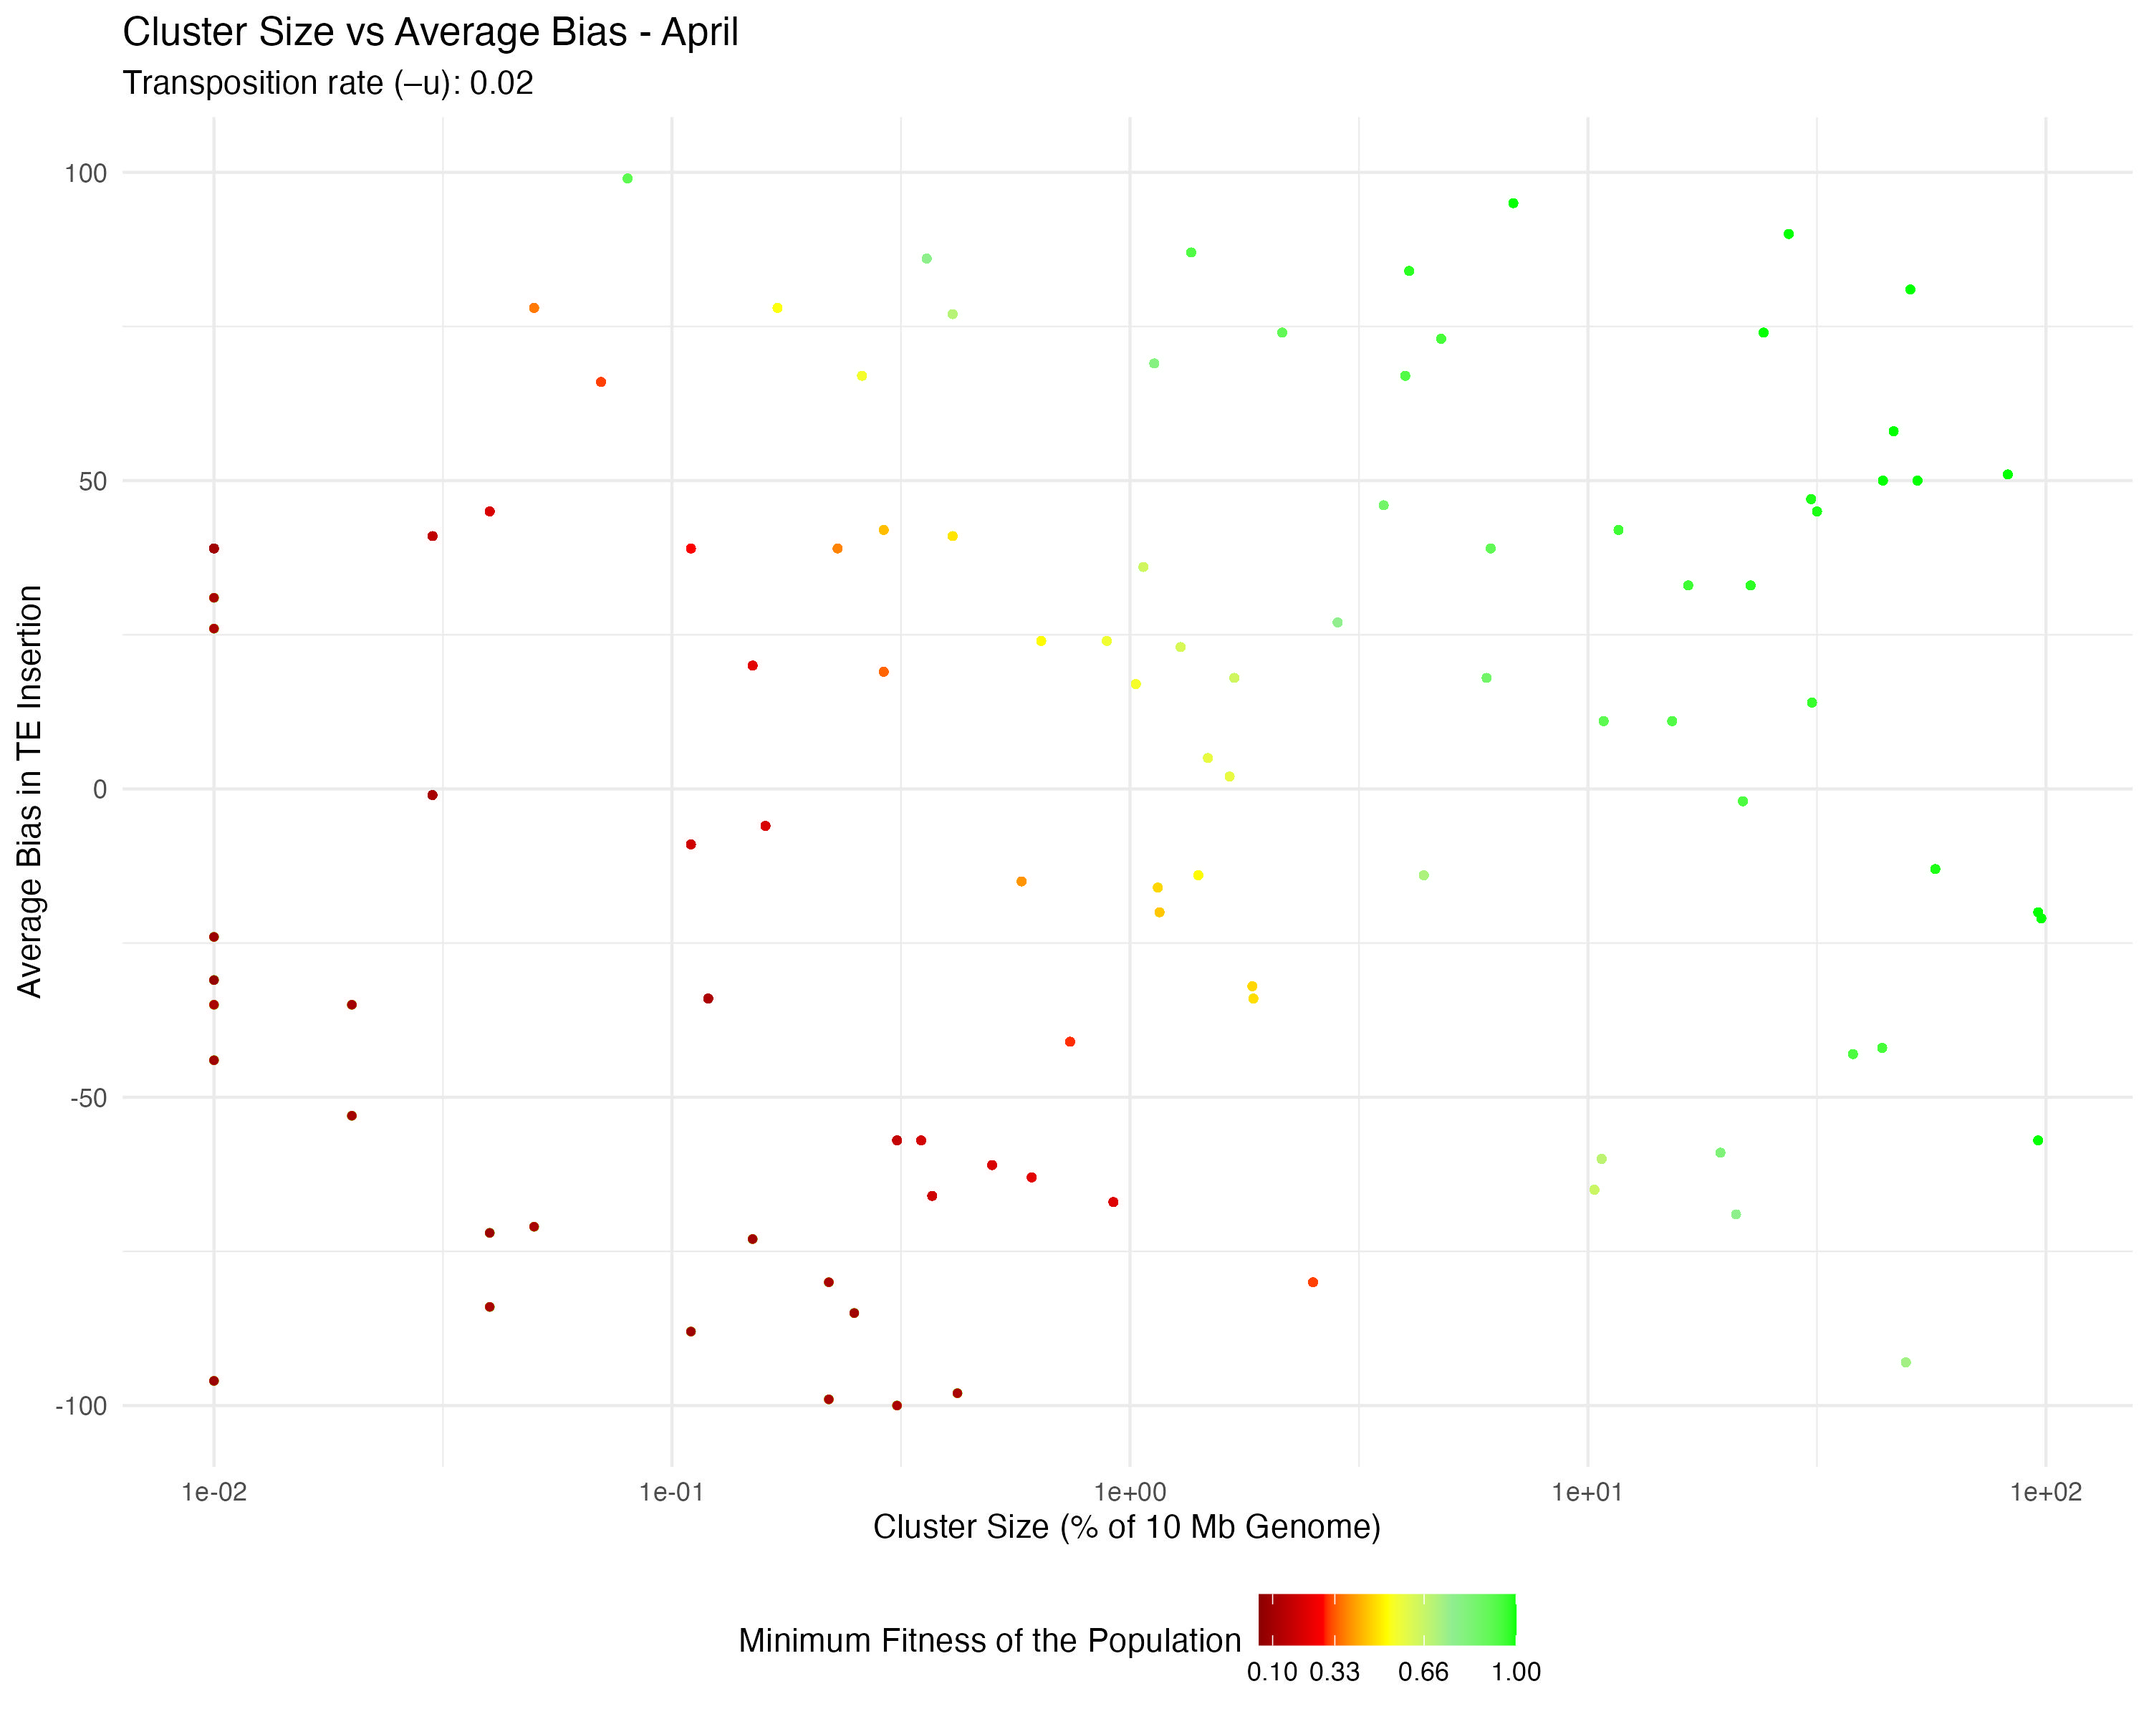
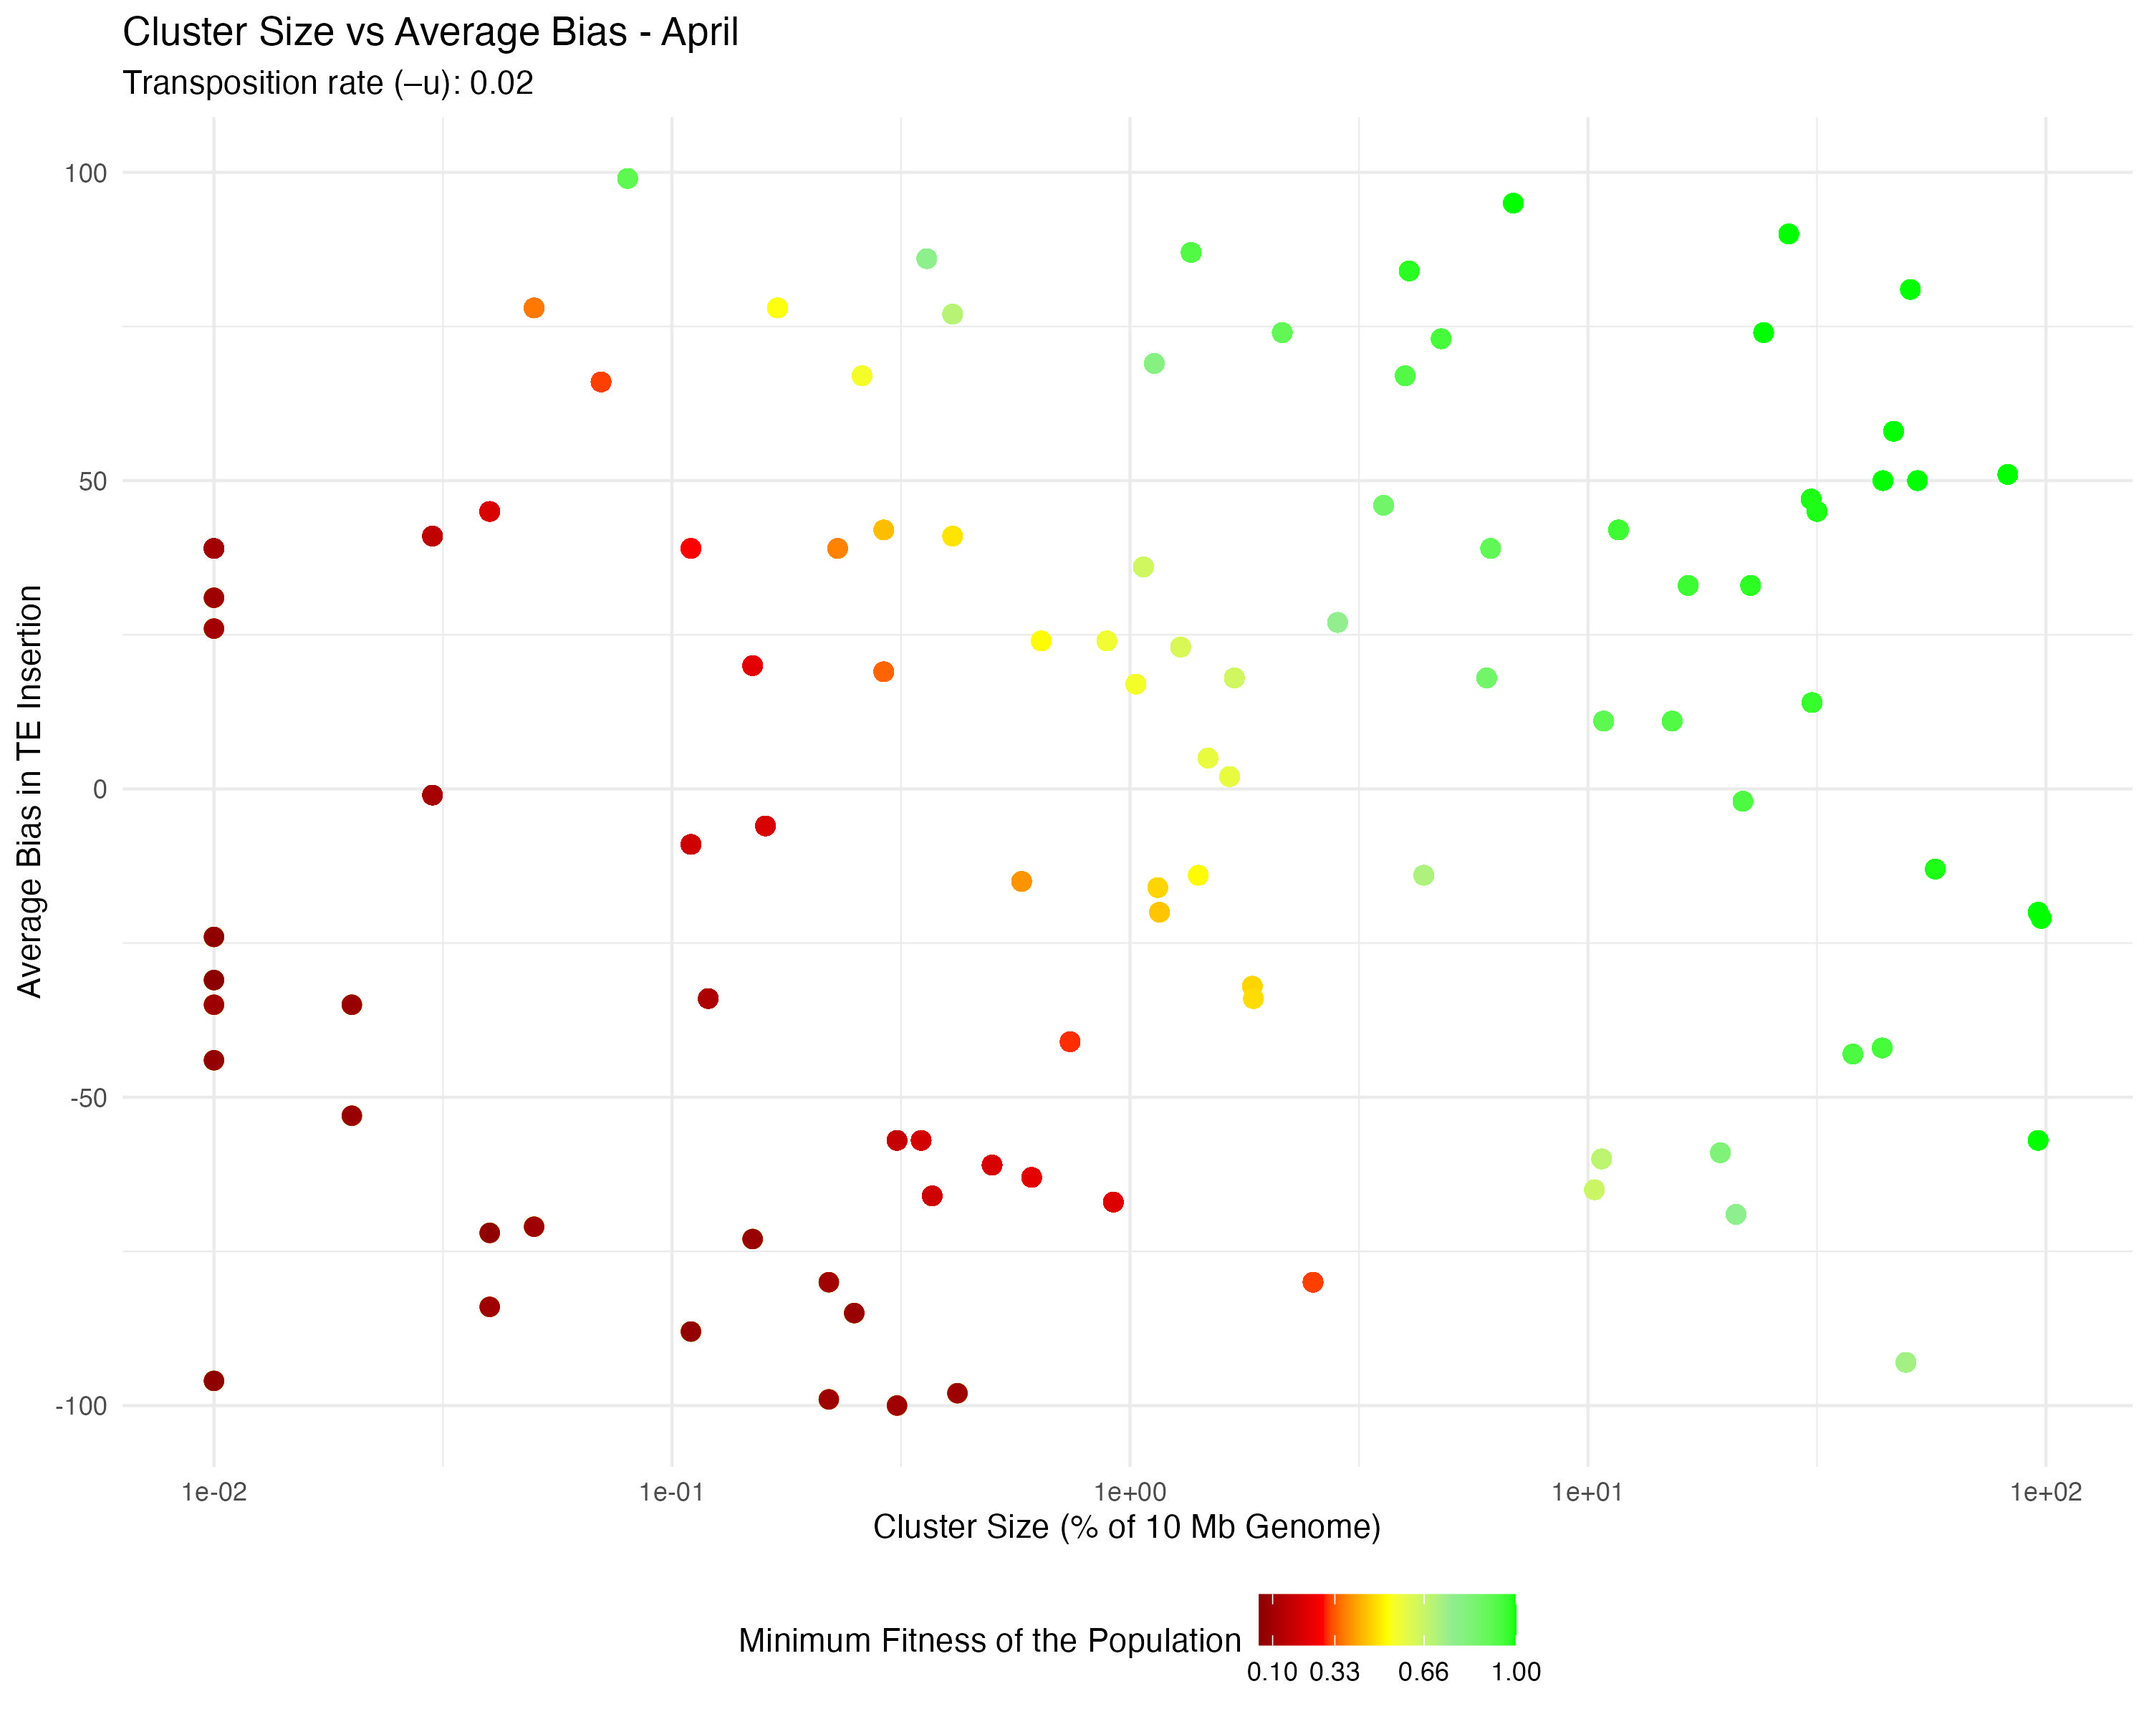
animation

diff --git a/Population_Size.md b/Population_Size.md
@@ -73,6 +73,7 @@ def get_rand_clusters():
 library(tidyverse)
 library(ggplot2)
 library(readr)
+library(animation)
 theme_set(theme_bw())
 ```
 
@@ -81,65 +82,11 @@ theme_set(theme_bw())
 <summary>Code</summary>
 
 ``` r
-#| output: false
 simulation_folder_path <- "/Users/shashankpritam/github/Insertion-Bias-TE/Simulation-Results_Files/simulation_storm/popvar/10thDec2023at072107PM/"
 
 month_folders <- c("January", "February", "March", "April", "May", "June", "July", "August", "September", "October", "November", "December")
 
-all_data <- tibble() 
 
-column_names <- c("rep", "gen", "popstat", "spacer_1", "fwte", "avw", "min_w", "avtes", "avpopfreq", "fixed", "spacer_2", "phase", "fwcli", "avcli", "fixcli", "spacer_3", "avbias", "3tot", "3cluster", "spacer_4", "sampleid")
-
-numeric_columns <- c("rep", "gen", "fwte", "avw", "min_w", "avtes", "avpopfreq", "fixed", "fwcli", "avcli", "fixcli", "avbias", "sampleid")
-
-for (month in month_folders) {
-  file_path <- paste0(simulation_folder_path, month, "/combined.txt")
-  
-  if (file.exists(file_path)) {
-    month_data <- read.table(file_path, header = TRUE, sep = "\t")
-    month_data$Month <- month
-    
-    # Ensure all required columns are present
-    for (col in column_names) {
-      if (!col %in% colnames(month_data)) {
-        month_data[[col]] <- NA
-      }
-    }
-    
-    # Ensure numeric columns are numeric
-    for (col in numeric_columns) {
-      if (col %in% colnames(month_data)) {
-        month_data[[col]] <- as.numeric(month_data[[col]])
-      }
-    }
-    
-    # Optionally, reorder columns to match 'column_names'
-    month_data <- month_data[, c(column_names, "Month")]
-    
-    all_data <- bind_rows(all_data, month_data)
-  }
-}
-
-# Create the sampleid_percent column and add it to numeric_columns
-all_data <- all_data %>%
-            mutate(sampleid_percent = (sampleid / 10000) * 100)
-
-numeric_columns <- c(numeric_columns, "sampleid_percent")
-
-# Convert columns to numeric where necessary
-all_data[numeric_columns] <- lapply(all_data[numeric_columns], as.numeric)
-
-# Count phases for each combination of avbias and sampleid
-phase_counts <- all_data %>%
-                group_by(avbias, sampleid_percent, phase) %>%
-                summarize(phase_count = n(), .groups = 'drop')
-```
-
-</details>
-<details>
-<summary>Code</summary>
-
-``` r
 load_month_data <- function(folder_path, month) {
   # Define column names
   column_names <- c("rep", "gen", "popstat", "spacer_1", "fwte", "avw", "min_w", "avtes", "avpopfreq", "fixed", "spacer_2", "phase", "fwcli", "avcli", "fixcli", "spacer_3", "avbias", "3tot", "3cluster", "spacer_4", "sampleid")
@@ -168,9 +115,8 @@ load_month_data <- function(folder_path, month) {
 
 ``` r
 plot_data <- function(df, month, u_value) {
-
   ggplot(df, aes(x = sampleid_percent, y = avbias, color = min_w)) +
-    geom_point(alpha = 0.7, size = 0.8) +
+    geom_point(alpha = 1.2, size = 2.5) +
     ylab("Average Bias in TE Insertion") +
     xlab("Cluster Size (% of 10 Mb Genome)") +
     labs(
@@ -195,6 +141,7 @@ plot_data <- function(df, month, u_value) {
 ``` r
 u_value <- 0.02
 
+# Create the plots and save them as individual image files
 for (month in month_folders) {
   df <- load_month_data(simulation_folder_path, month)
   plot <- plot_data(df, month, u_value)
@@ -229,6 +176,19 @@ for (month in month_folders) {
 
     Warning: Removed 7 rows containing missing values (`geom_point()`).
 
+<details>
+<summary>Code</summary>
+
+``` r
+# Create a string with the sorted image filenames
+image_files <- paste0("images/pop_var_", month_folders, ".jpg")
+image_files_str <- paste(image_files, collapse = " ")
+
+# Create the GIF with the images in the correct order
+system(paste("convert -delay 100 -loop 0", image_files_str, "images/pop_var.gif"))
+```
+
+</details>
 <html>
 <body>
 <h2>
@@ -248,5 +208,6 @@ Population Variation Plots
 <img src="images/pop_var_November.jpg" alt="November">
 <img src="images/pop_var_December.jpg" alt="December">
 
+<img src="images/pop_var.gif" alt="Annual Variation">
 </body>
 </html>
